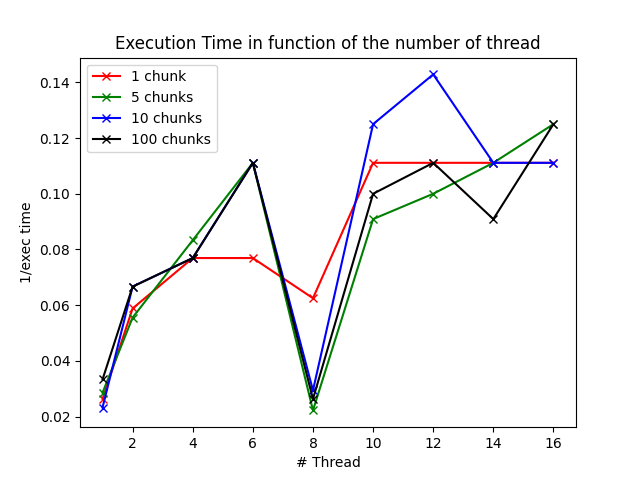
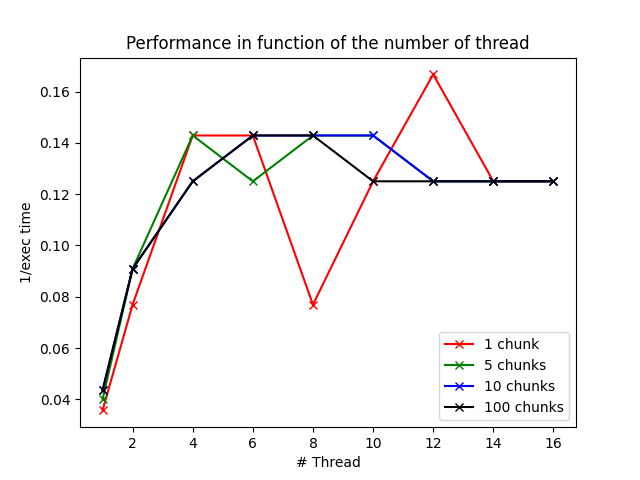
feat: data in report

diff --git a/50221600_proj3/prob2/benchmark/benchmark.py b/50221600_proj3/prob2/benchmark/benchmark.py
@@ -11,9 +11,12 @@ CHUNK_SIZE: list[int] = [1, 5, 10, 100]
 OUTPUT_FOLDER: str = "./benchmark/results"
 HEADERS_EXEC_TIME: list[str] = ["Number of thread",
                                 *map(lambda x: f"Execution time {x} chunks",
-                                     CHUNK_SIZE),
-                                *map(lambda x: f"Performance {x} chunks",
                                      CHUNK_SIZE)]
+
+HEADERS_PERFORMANCE: list[str] = ["Number of thread",
+                                  *map(lambda x: f"Performance {x} chunks",
+                                       CHUNK_SIZE)]
+
 OUTPUT_NAMES: dict[int, str] = {
     1: "static",
     2: "dynamic",
@@ -21,8 +24,9 @@ OUTPUT_NAMES: dict[int, str] = {
 }
 
 
-def benchmark(scheduling_type: int) -> list[list]:
-    dest: list[list] = []
+def benchmark(scheduling_type: int) -> tuple[list[list], list[list]]:
+    result_exec_time: list[list] = []
+    result_performance: list[list] = []
     for t in tqdm(THREADS_NUMBER):
         chunk_results_exec: list = []
         chunk_results_performance: list = []
@@ -36,11 +40,12 @@ def benchmark(scheduling_type: int) -> list[list]:
             performance: float = 1 / time_ms
             chunk_results_exec.append(time_ms)
             chunk_results_performance.append(performance)
-        dest.append([t, *chunk_results_exec, *chunk_results_performance])
-    return dest
+        result_exec_time.append([t, *chunk_results_exec])
+        result_performance.append([t, *chunk_results_performance])
+    return result_exec_time, result_performance
 
 
-def plot(data: pd.DataFrame, scheduling_type: int) -> None:
+def plot_exec_time(data: pd.DataFrame, scheduling_type: int) -> None:
     plt.plot(data[HEADERS_EXEC_TIME[0]], data[HEADERS_EXEC_TIME[1]], color='r',
              label="1 chunk", marker="x")
     plt.plot(data[HEADERS_EXEC_TIME[0]], data[HEADERS_EXEC_TIME[2]], color='g',
@@ -56,13 +61,20 @@ def plot(data: pd.DataFrame, scheduling_type: int) -> None:
     plt.savefig(
         f'{OUTPUT_FOLDER}/{OUTPUT_NAMES[scheduling_type]}_exec_time.png')
     plt.close()
-    plt.plot(data[HEADERS_EXEC_TIME[0]], data[HEADERS_EXEC_TIME[5]], color='r',
+
+
+def plop_performance(data: pd.DataFrame, scheduling_type: int) -> None:
+    plt.plot(data[HEADERS_PERFORMANCE[0]], data[HEADERS_PERFORMANCE[1]],
+             color='r',
              label="1 chunk", marker="x")
-    plt.plot(data[HEADERS_EXEC_TIME[0]], data[HEADERS_EXEC_TIME[6]], color='g',
+    plt.plot(data[HEADERS_PERFORMANCE[0]], data[HEADERS_PERFORMANCE[2]],
+             color='g',
              label="5 chunks", marker="x")
-    plt.plot(data[HEADERS_EXEC_TIME[0]], data[HEADERS_EXEC_TIME[7]], color='b',
+    plt.plot(data[HEADERS_PERFORMANCE[0]], data[HEADERS_PERFORMANCE[3]],
+             color='b',
              label="10 chunks", marker="x")
-    plt.plot(data[HEADERS_EXEC_TIME[0]], data[HEADERS_EXEC_TIME[8]], color='k',
+    plt.plot(data[HEADERS_PERFORMANCE[0]], data[HEADERS_PERFORMANCE[4]],
+             color='k',
              label="100 chunks", marker="x")
     plt.title("Performance in function of the number of thread")
     plt.xlabel("# Thread")
@@ -73,14 +85,21 @@ def plot(data: pd.DataFrame, scheduling_type: int) -> None:
     plt.close()
 
 
-#
 if __name__ == "__main__":
     if not os.path.exists(OUTPUT_FOLDER):
         os.makedirs(OUTPUT_FOLDER)
     for scheduling_type in OUTPUT_NAMES.keys():
-        results = benchmark(scheduling_type)
-        data = pd.DataFrame(results, columns=HEADERS_EXEC_TIME)
-        data.to_csv(f'{OUTPUT_FOLDER}/{OUTPUT_NAMES[scheduling_type]}.csv',
-                    index=False)
+        result_exec_time, result_performance = benchmark(scheduling_type)
+        data_exec_time = pd.DataFrame(result_exec_time,
+                                      columns=HEADERS_EXEC_TIME)
+        data_exec_time.to_csv(
+            f'{OUTPUT_FOLDER}/{OUTPUT_NAMES[scheduling_type]}_exec_time.csv',
+            index=False)
+        data_performance = pd.DataFrame(result_performance,
+                                        columns=HEADERS_PERFORMANCE)
+        data_performance.to_csv(
+            f'{OUTPUT_FOLDER}/{OUTPUT_NAMES[scheduling_type]}_performance.csv',
+            index=False)
         # results = pd.read_csv(f'{OUTPUT_FOLDER}/{OUTPUT_NAMES[1]}.csv', header=None, skiprows=[0])
-        plot(data, scheduling_type)
+        plot_exec_time(data_exec_time, scheduling_type)
+        plop_performance(data_performance, scheduling_type)

diff --git a/50221600_proj3/prob2/report.md b/50221600_proj3/prob2/report.md
@@ -1,0 +1,129 @@
+# Proj3 prob2 report
+
+__Antoine DESRUET 50221600__
+
+## Static
+
+### Tables
+
+#### Execution time
+
+|Number of thread|Execution time 1 chunks|Execution time 5 chunks|Execution time 10 chunks|Execution time 100 chunks|
+|----------------|-----------------------|-----------------------|------------------------|-------------------------|
+|1               |20                     |23                     |20                      |20                       |
+|2               |72                     |21                     |16                      |12                       |
+|4               |42                     |13                     |11                      |10                       |
+|6               |45                     |16                     |12                      |9                        |
+|8               |50                     |13                     |10                      |7                        |
+|10              |43                     |19                     |13                      |10                       |
+|12              |38                     |15                     |12                      |8                        |
+|14              |39                     |14                     |11                      |8                        |
+|16              |40                     |16                     |12                      |9                        |
+
+#### Performance
+
+|Number of thread|Performance 1 chunks|Performance 5 chunks|Performance 10 chunks|Performance 100 chunks|
+|----------------|--------------------|--------------------|---------------------|----------------------|
+|1               |0.05                |0.043478260869565216|0.05                 |0.05                  |
+|2               |0.013888888888888888|0.047619047619047616|0.0625               |0.08333333333333333   |
+|4               |0.023809523809523808|0.07692307692307693 |0.09090909090909091  |0.1                   |
+|6               |0.022222222222222223|0.0625              |0.08333333333333333  |0.1111111111111111    |
+|8               |0.02                |0.07692307692307693 |0.1                  |0.14285714285714285   |
+|10              |0.023255813953488372|0.05263157894736842 |0.07692307692307693  |0.1                   |
+|12              |0.02631578947368421 |0.06666666666666667 |0.08333333333333333  |0.125                 |
+|14              |0.02564102564102564 |0.07142857142857142 |0.09090909090909091  |0.125                 |
+|16              |0.025               |0.0625              |0.08333333333333333  |0.1111111111111111    |
+
+### Graphs
+
+#### Execution time
+
+![static_exec_time.png](benchmark%2Fresults%2Fstatic_exec_time.png)
+
+#### Performance
+
+![static_performance.png](benchmark%2Fresults%2Fstatic_performance.png)
+
+## Dynamic
+
+### Tables
+
+#### Execution time
+
+|Number of thread|Execution time 1 chunks|Execution time 5 chunks|Execution time 10 chunks|Execution time 100 chunks|
+|----------------|-----------------------|-----------------------|------------------------|-------------------------|
+|1               |181                    |49                     |35                      |24                       |
+|2               |191                    |41                     |25                      |14                       |
+|4               |183                    |43                     |22                      |8                        |
+|6               |157                    |39                     |19                      |8                        |
+|8               |180                    |30                     |19                      |7                        |
+|10              |159                    |37                     |18                      |7                        |
+|12              |137                    |31                     |18                      |7                        |
+|14              |181                    |37                     |18                      |9                        |
+|16              |142                    |37                     |16                      |8                        |
+
+#### Performance
+
+|Number of thread|Performance 1 chunks |Performance 5 chunks|Performance 10 chunks|Performance 100 chunks|
+|----------------|---------------------|--------------------|---------------------|----------------------|
+|1               |0.0055248618784530384|0.02040816326530612 |0.02857142857142857  |0.041666666666666664  |
+|2               |0.005235602094240838 |0.024390243902439025|0.04                 |0.07142857142857142   |
+|4               |0.00546448087431694  |0.023255813953488372|0.045454545454545456 |0.125                 |
+|6               |0.006369426751592357 |0.02564102564102564 |0.05263157894736842  |0.125                 |
+|8               |0.005555555555555556 |0.03333333333333333 |0.05263157894736842  |0.14285714285714285   |
+|10              |0.006289308176100629 |0.02702702702702703 |0.05555555555555555  |0.14285714285714285   |
+|12              |0.0072992700729927005|0.03225806451612903 |0.05555555555555555  |0.14285714285714285   |
+|14              |0.0055248618784530384|0.02702702702702703 |0.05555555555555555  |0.1111111111111111    |
+|16              |0.007042253521126761 |0.02702702702702703 |0.0625               |0.125                 |
+
+### Graphs
+
+#### Execution time
+
+![dynamic_exec_time.png](benchmark%2Fresults%2Fdynamic_exec_time.png)
+
+#### Performance
+
+![dynamic_performance.png](benchmark%2Fresults%2Fdynamic_performance.png)
+
+## Guided
+
+### Tables
+
+#### Execution time
+
+|Number of thread|Execution time 1 chunks|Execution time 5 chunks|Execution time 10 chunks|Execution time 100 chunks|
+|----------------|-----------------------|-----------------------|------------------------|-------------------------|
+|1               |28                     |25                     |23                      |23                       |
+|2               |13                     |11                     |11                      |11                       |
+|4               |7                      |7                      |8                       |8                        |
+|6               |7                      |8                      |7                       |7                        |
+|8               |13                     |7                      |7                       |7                        |
+|10              |8                      |7                      |7                       |8                        |
+|12              |6                      |8                      |8                       |8                        |
+|14              |8                      |8                      |8                       |8                        |
+|16              |8                      |8                      |8                       |8                        |
+
+#### Performance
+
+|Number of thread|Performance 1 chunks|Performance 5 chunks|Performance 10 chunks|Performance 100 chunks|
+|----------------|--------------------|--------------------|---------------------|----------------------|
+|1               |0.03571428571428571 |0.04                |0.043478260869565216 |0.043478260869565216  |
+|2               |0.07692307692307693 |0.09090909090909091 |0.09090909090909091  |0.09090909090909091   |
+|4               |0.14285714285714285 |0.14285714285714285 |0.125                |0.125                 |
+|6               |0.14285714285714285 |0.125               |0.14285714285714285  |0.14285714285714285   |
+|8               |0.07692307692307693 |0.14285714285714285 |0.14285714285714285  |0.14285714285714285   |
+|10              |0.125               |0.14285714285714285 |0.14285714285714285  |0.125                 |
+|12              |0.16666666666666666 |0.125               |0.125                |0.125                 |
+|14              |0.125               |0.125               |0.125                |0.125                 |
+|16              |0.125               |0.125               |0.125                |0.125                 |
+
+### Graphs
+
+#### Execution time
+
+![guided_exec_time.png](benchmark%2Fresults%2Fguided_exec_time.png)
+
+#### Performance
+
+![guided_performance.png](benchmark%2Fresults%2Fguided_performance.png)
